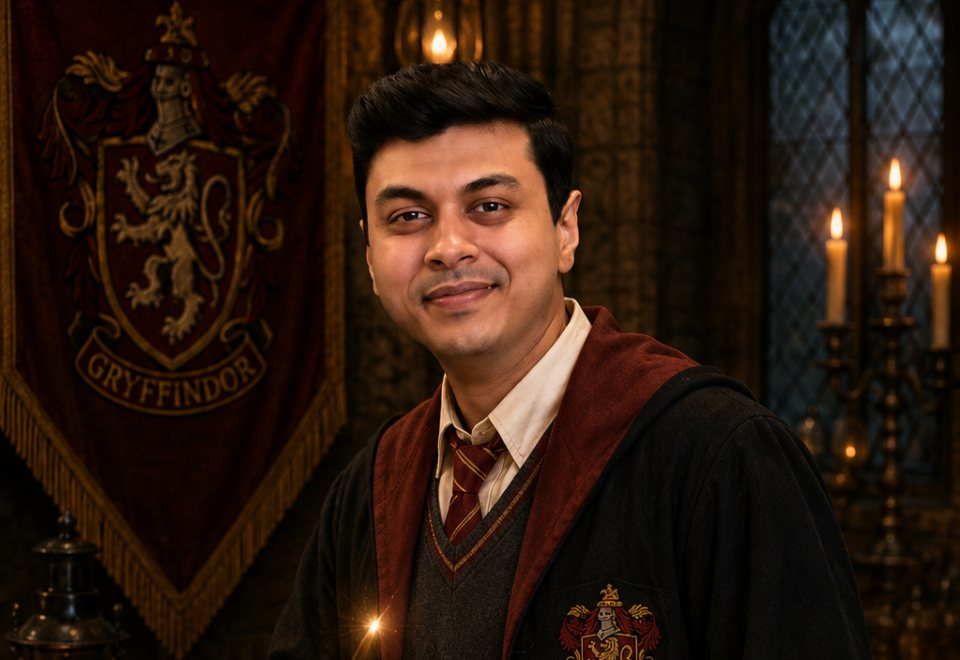
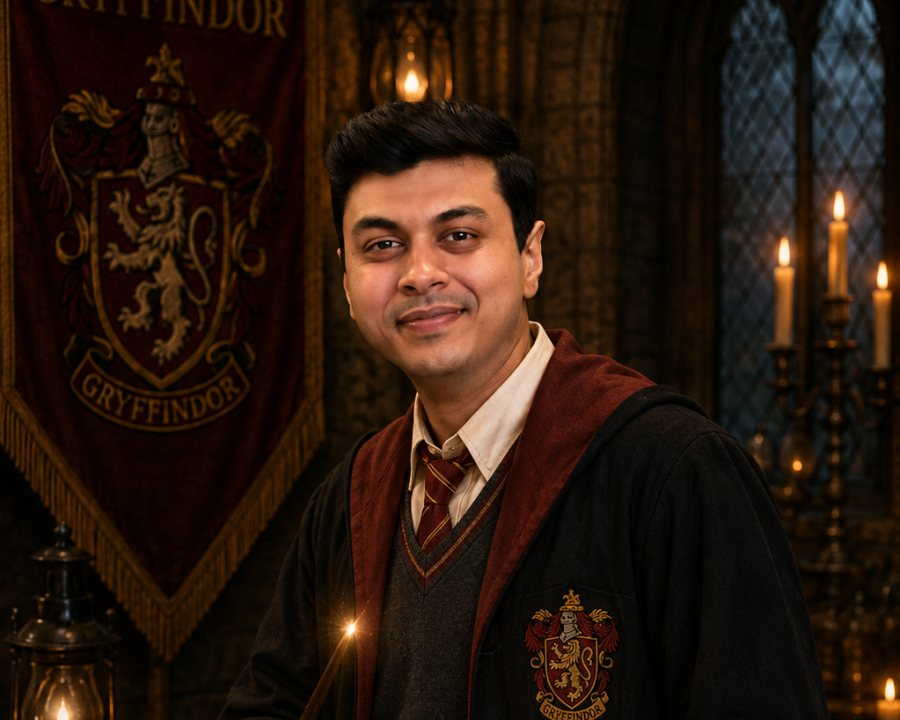
Zoom the option photos out
The cards were cropped to a 16:11 band showing only 46% of each photo, which
read as heavily zoomed. They're now 5:4 crops covering 53%, so the robes,
banner and candlelight all survive.

The real culprit was the height cap: once max-height clamped the frame, it
became wider than the crop and `cover` silently re-cropped the top and
bottom, undoing the change. The frame now has room to hold its 5:4 ratio and
the space is reclaimed from margins instead — verified the rendered frame is
exactly 1.25, so the browser adds no crop of its own.

Phone layout retuned around the taller photos: tighter page padding, headings
and countdown spacing, a shorter guest prompt. Both photos and the prompt sit
on one screen with no scrolling.

diff --git a/index.html b/index.html
@@ -109,11 +109,11 @@
 
   .qmeta{
     text-align:center; font-variant:small-caps; letter-spacing:.2em;
-    color:var(--gold); font-size:clamp(.8rem,1.6vw,1rem); margin:0 0 .8em;
+    color:var(--gold); font-size:clamp(.8rem,1.6vw,1rem); margin:0 0 .5em;
   }
   .question{
-    text-align:center; font-size:clamp(1.5rem,4.6vw,3rem); line-height:1.25;
-    margin:0 auto 1.1em; max-width:22em; font-weight:400; color:var(--cream);
+    text-align:center; font-size:clamp(1.35rem,4.4vw,3rem); line-height:1.22;
+    margin:0 auto .7em; max-width:22em; font-weight:400; color:var(--cream);
     text-shadow:0 2px 24px rgba(0,0,0,.5);
   }
   .live-note{
@@ -124,7 +124,7 @@
   @keyframes pulse{0%,100%{opacity:.35}50%{opacity:1}}
 
   /* ---- Option cards (guest voting buttons) ---- */
-  .options{display:grid; grid-template-columns:1fr 1fr; gap:clamp(12px,2.5vw,24px)}
+  .options{display:grid; grid-template-columns:1fr 1fr; gap:clamp(10px,2.5vw,24px)}
   .opt{
     border-radius:18px; padding:0; text-align:center; overflow:hidden;
     border:2px solid rgba(255,255,255,.16); position:relative;
@@ -133,11 +133,11 @@
     color:var(--cream); background:rgba(0,0,0,.28);
   }
   /* The photograph itself carries nothing — no text, no scrim, no overlay. */
-  .optframe{display:block; position:relative; width:100%; aspect-ratio:16/11;
-    max-height:26vh; overflow:hidden}
+  .optframe{display:block; position:relative; width:100%; aspect-ratio:5/4;
+    max-height:36vh; overflow:hidden}
   .optpic{
     position:absolute; inset:0; width:100%; height:100%;
-    object-fit:cover; object-position:center 34%;
+    object-fit:cover; object-position:center 40%;
   }
   .opt.nopic .optframe{display:none}
   /* Only shown if a photo is missing, so the card is never a blank slab. */
@@ -219,8 +219,8 @@
 
   .controls{display:flex; gap:14px; justify-content:center; flex-wrap:wrap; margin-top:.6em}
   .guest-msg{
-    text-align:center; font-size:clamp(1.05rem,2.6vw,1.4rem); color:var(--gold-lt);
-    font-style:italic; margin:1.6em auto 0; max-width:26em; line-height:1.6;
+    text-align:center; font-size:clamp(.98rem,2.4vw,1.4rem); color:var(--gold-lt);
+    font-style:italic; margin:.9em auto 0; max-width:26em; line-height:1.5;
   }
   .split{
     text-align:center; font-size:clamp(1.3rem,5vw,2rem); margin:.2em 0 .1em; letter-spacing:.02em;
@@ -228,7 +228,7 @@
   .split .a{color:var(--gryff-1)} .split .b{color:#57a86f} .split .dash{color:var(--gold); margin:0 .4em}
   /* ---- countdown ---- */
   .timer{
-    display:block; width:max-content; margin:0 auto 1.1em; text-align:center;
+    display:block; width:max-content; margin:0 auto .7em; text-align:center;
     font-variant:small-caps; letter-spacing:.18em; color:var(--gold-lt);
     border:1px solid var(--line); border-radius:999px; padding:.3em 1.1em;
     background:rgba(0,0,0,.25); font-size:clamp(.9rem,2.2vw,1.15rem);
@@ -239,7 +239,7 @@
     background:transparent; animation:none}
   @keyframes tick{0%,100%{opacity:1}50%{opacity:.55}}
   .timerbar{
-    width:min(560px,90%); height:4px; margin:0 auto 1.6em; border-radius:999px;
+    width:min(560px,90%); height:4px; margin:0 auto .9em; border-radius:999px;
     background:rgba(241,230,200,.12); overflow:hidden;
   }
   .timerbar span{
@@ -441,7 +441,13 @@
     .musicbtn{position:static; margin:1.2em auto 0; display:inline-flex}
   }
   @media (max-width:560px){
-    .options{grid-template-columns:1fr}
+    /* A phone has no room to spare: the two photos and the prompt have to
+       share one screen without scrolling during a 20-second vote. */
+    .wrap{padding-top:8px; padding-bottom:10px}
+    .options{grid-template-columns:1fr; gap:8px}
+    .timer{margin-bottom:.45em}
+    .timerbar{margin-bottom:.6em}
+    .guest-msg{margin-top:.6em}
     .vials{gap:18px}
   }
   @media (prefers-reduced-motion:reduce){
@@ -620,7 +626,7 @@ const STRINGS = {
     waitBody:(secs)=>`The host hasn't opened the first question yet. Keep this page open — it'll jump to the vote by itself. Every question is the same choice: tap ${PARENT_A} or tap ${PARENT_B}. You get ${secs} seconds each, so keep your thumb ready.`,
     qOf:(i,n)=>`Question ${i} of ${n}`,
     says:"says",              secsLeft:(n)=>`${n}s left`,          timesUp:"time's up",
-    tapFast:"Tap a face. One vote per question — choose wisely.",
+    tapFast:"Tap a face — one vote per question.",
     voteIn:"Vote received. Sit tight for the reveal…",
     tooLate:"Time's up — this one closed before you tapped. Next question shortly…",
     votesCast:(n)=>`${n} vote${n===1?"":"s"} cast`,
@@ -647,7 +653,7 @@ const STRINGS = {
     waitBody:(secs)=>`होस्ट ने अभी पहला सवाल खोला नहीं है। यह पेज खुला रहने दीजिए — सवाल आते ही यह अपने आप बदल जाएगा। हर सवाल में चुनाव एक ही है: ${PARENT_A_HI} या ${PARENT_B_HI}। हर सवाल के लिए ${secs} सेकंड मिलेंगे, इसलिए उँगली तैयार रखिए।`,
     qOf:(i,n)=>`सवाल ${i} / ${n}`,
     says:"का कहना है",         secsLeft:(n)=>`${n} सेकंड बाक़ी`,    timesUp:"समय ख़त्म",
-    tapFast:"चेहरा चुनिए। हर सवाल में सिर्फ़ एक वोट — सोच-समझकर।",
+    tapFast:"चेहरा चुनिए — हर सवाल में एक वोट।",
     voteIn:"वोट मिल गया। अब नतीजे का इंतज़ार कीजिए…",
     tooLate:"समय ख़त्म — इस बार वोट नहीं गिना गया। अगला सवाल बस आने ही वाला है…",
     votesCast:(n)=>`कुल ${n} वोट`,
